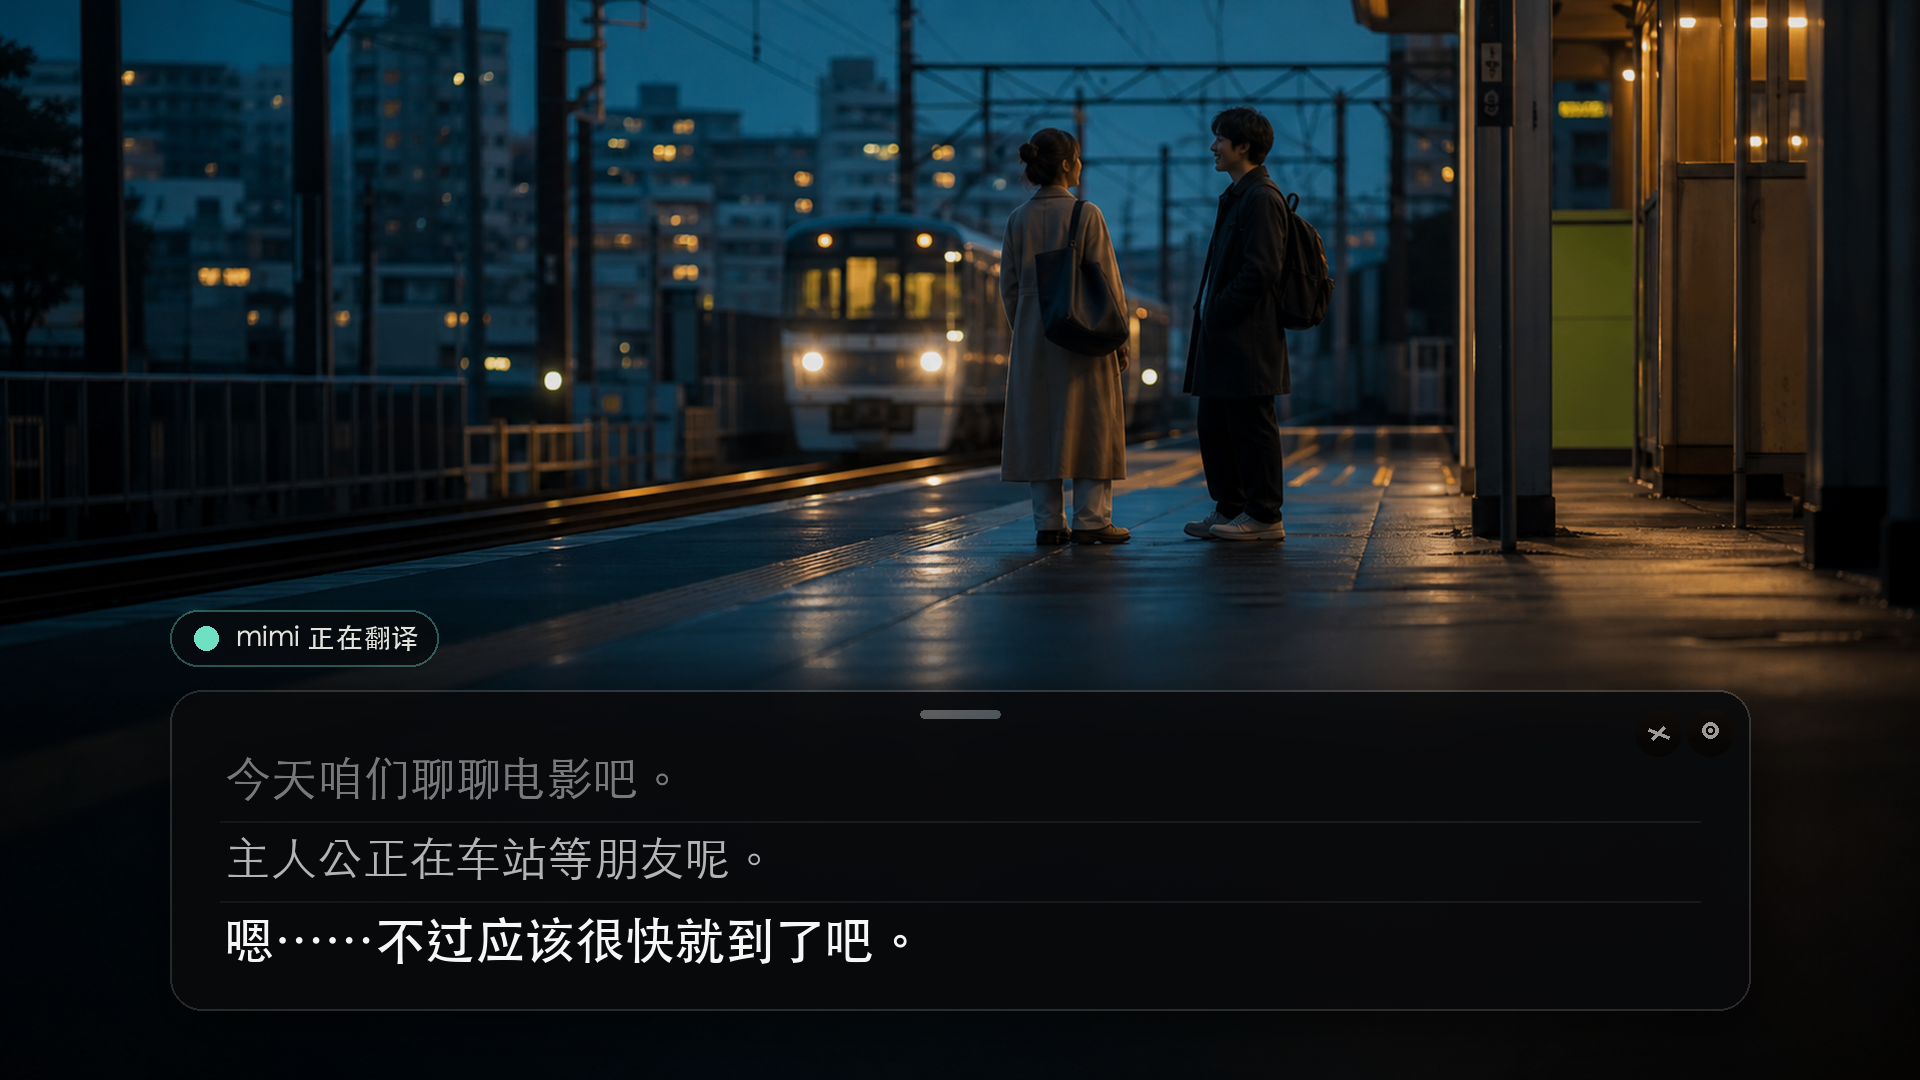
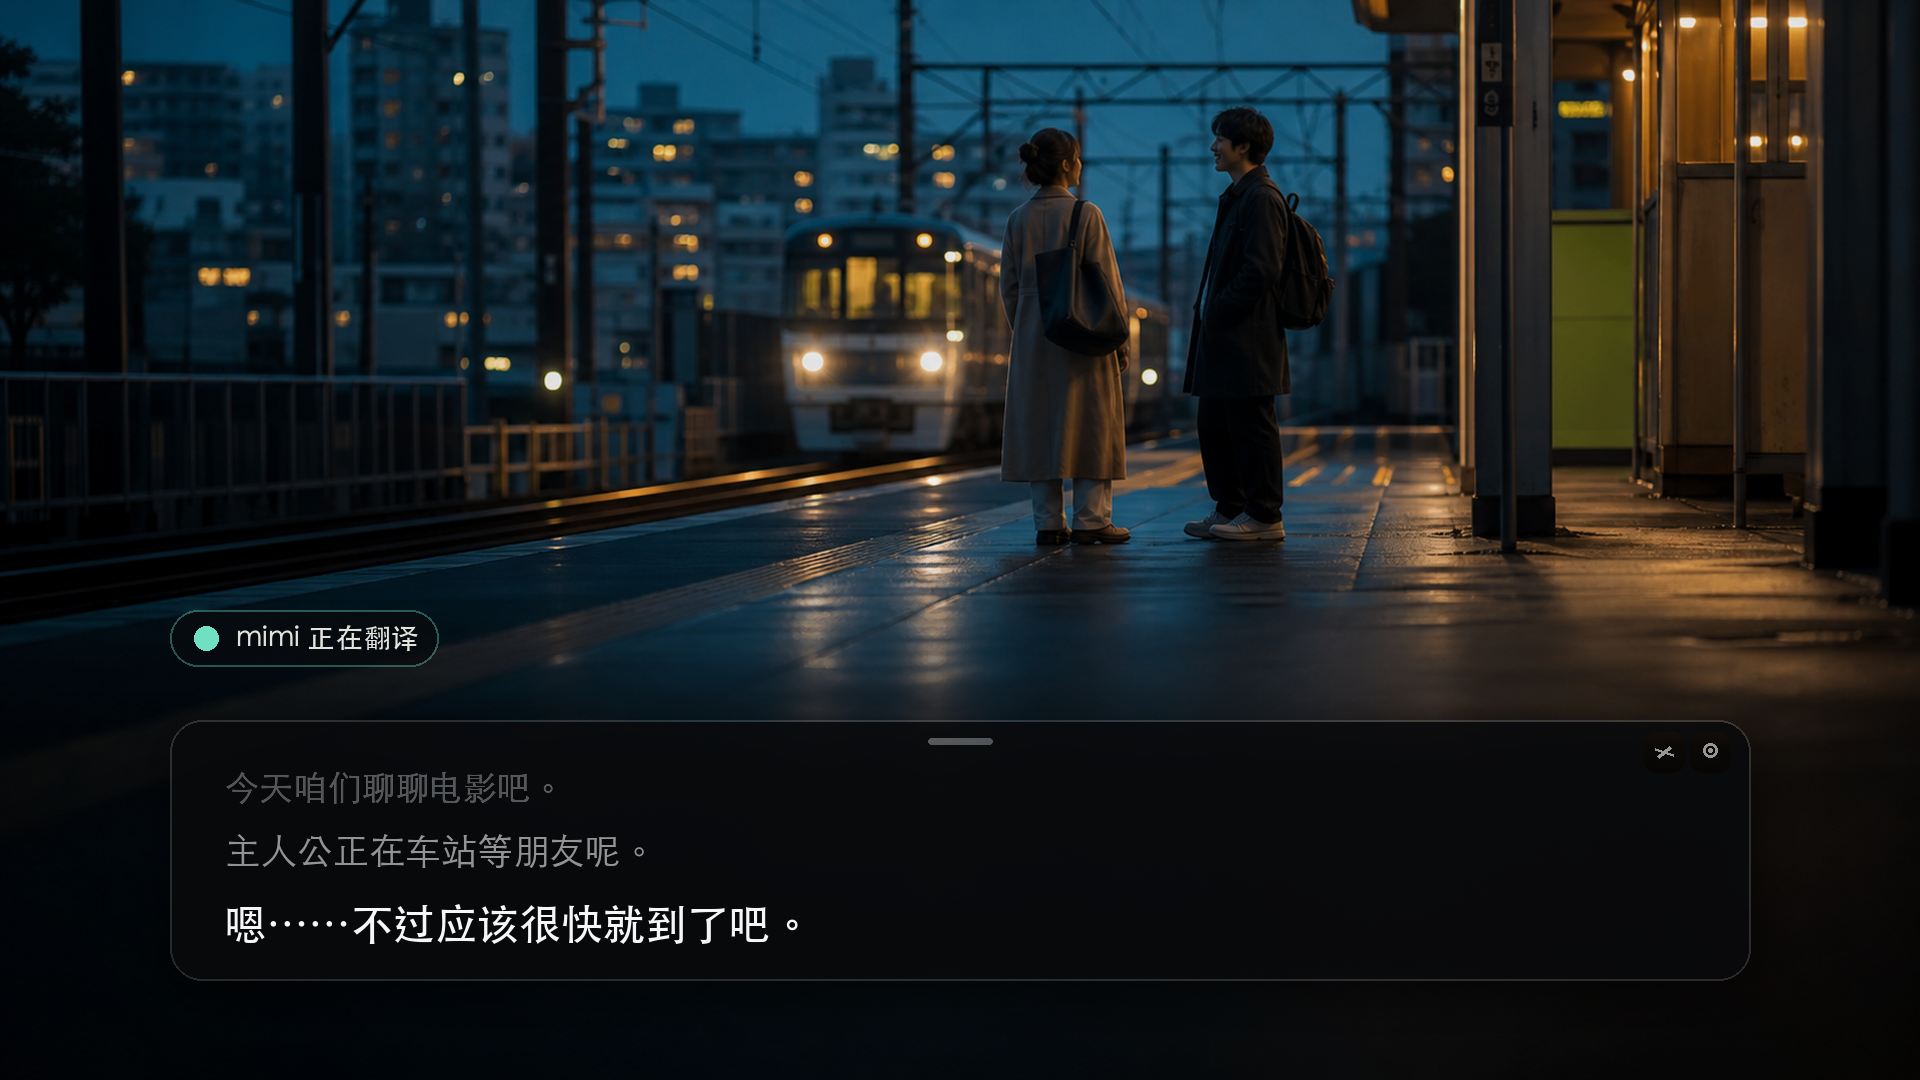
ui: refine the subtitle overlay

diff --git a/Sources/MimiApp/SubtitleOverlayView.swift b/Sources/MimiApp/SubtitleOverlayView.swift
@@ -10,16 +10,26 @@ struct SubtitleOverlayView: View {
     var body: some View {
         ZStack {
             RoundedRectangle(cornerRadius: 16, style: .continuous)
-                .fill(.black.opacity(0.72))
+                .fill(.black.opacity(0.62))
+
+            RoundedRectangle(cornerRadius: 16, style: .continuous)
+                .fill(
+                    LinearGradient(
+                        colors: [.white.opacity(0.035), .clear],
+                        startPoint: .top,
+                        endPoint: .center
+                    )
+                )
 
             VStack(spacing: 0) {
                 WindowDragArea()
-                    .frame(height: 24)
+                    .frame(height: 18)
+                    .opacity(isHovering || model.showsOverlayControlsForUITesting ? 1 : 0)
 
                 if visibleRows.isEmpty {
                     Spacer(minLength: 0)
                     Text(emptyStateText)
-                        .font(.system(size: max(16, settings.fontSize * 0.72), weight: .medium))
+                        .font(.system(size: max(15, settings.fontSize * 0.68), weight: .medium))
                         .foregroundStyle(emptyStateColor)
                         .multilineTextAlignment(.center)
                         .padding(.horizontal, 24)
@@ -31,16 +41,16 @@ struct SubtitleOverlayView: View {
                     )
                 }
             }
-            .padding(8)
+            .padding(7)
         }
         .overlay {
             RoundedRectangle(cornerRadius: 16, style: .continuous)
-                .stroke(.white.opacity(0.09), lineWidth: 1)
+                .stroke(.white.opacity(0.12), lineWidth: 0.75)
         }
         .overlay(alignment: .topTrailing) {
             if !settings.isOverlayLocked
                 && (isHovering || model.showsOverlayControlsForUITesting) {
-                HStack(spacing: 6) {
+                HStack(spacing: 4) {
                     if hasSubtitleContent {
                         OverlayControlButton(
                             systemImage: "eraser.fill",
@@ -57,7 +67,7 @@ struct SubtitleOverlayView: View {
                         model.showSettings()
                     }
                 }
-                .padding(12)
+                .padding(10)
             }
         }
         .onHover { isHovering = $0 }
@@ -66,7 +76,7 @@ struct SubtitleOverlayView: View {
 
     private var visibleRows: [SubtitleRow] {
         let subtitles = model.state.subtitles
-        var rows = subtitles.history.suffix(4).map {
+        var rows = subtitles.history.suffix(2).map {
             SubtitleRow(text: $0.translation)
         }
         let current = subtitles.translation.text
@@ -74,7 +84,7 @@ struct SubtitleOverlayView: View {
         if !current.isEmpty, rows.last?.text != current {
             rows.append(SubtitleRow(text: current))
         }
-        return Array(rows.suffix(5))
+        return Array(rows.suffix(3))
     }
 
     private var hasSubtitleContent: Bool {
@@ -113,10 +123,10 @@ private struct OverlayControlButton: View {
     var body: some View {
         Button(action: action) {
             Image(systemName: systemImage)
-                .font(.system(size: 11, weight: .semibold))
-                .foregroundStyle(.white.opacity(0.58))
-                .frame(width: 26, height: 26)
-                .background(.black.opacity(0.34), in: Circle())
+                .font(.system(size: 10, weight: .medium))
+                .foregroundStyle(.white.opacity(0.68))
+                .frame(width: 24, height: 24)
+                .background(.black.opacity(0.28), in: RoundedRectangle(cornerRadius: 8, style: .continuous))
         }
         .buttonStyle(.plain)
         .help(label)
@@ -141,21 +151,16 @@ private struct SubtitleTimeline: View {
                     ForEach(Array(rows.enumerated()), id: \.offset) { index, row in
                         Text(row.text)
                             .font(.system(
-                                size: fontSize,
-                                weight: index == rows.count - 1 ? .semibold : .regular
+                                size: rowFontSize(at: index),
+                                weight: index == rows.count - 1 ? .medium : .regular
                             ))
                             .foregroundStyle(.white.opacity(rowOpacity(at: index)))
                             .multilineTextAlignment(.leading)
                             .fixedSize(horizontal: false, vertical: true)
                             .frame(maxWidth: .infinity, alignment: .leading)
-                            .padding(.horizontal, 20)
-                            .padding(.vertical, 8)
-
-                        if index < rows.count - 1 {
-                            Color.white.opacity(0.06)
-                                .frame(height: 1)
-                                .padding(.horizontal, 20)
-                        }
+                            .lineSpacing(2)
+                            .padding(.horizontal, 18)
+                            .padding(.vertical, index == rows.count - 1 ? 7 : 5)
                     }
 
                     Color.clear
@@ -173,13 +178,16 @@ private struct SubtitleTimeline: View {
         }
     }
 
+    private func rowFontSize(at index: Int) -> Double {
+        index == rows.count - 1 ? fontSize : max(15, fontSize * 0.82)
+    }
+
     private func rowOpacity(at index: Int) -> Double {
         let distance = rows.count - 1 - index
         return switch distance {
         case 0: 1
-        case 1: 0.72
-        case 2: 0.54
-        default: 0.38
+        case 1: 0.58
+        default: 0.34
         }
     }
 }
@@ -200,7 +208,7 @@ private struct WindowDragArea: NSViewRepresentable {
             super.init(frame: frameRect)
             wantsLayer = true
             handle.wantsLayer = true
-            handle.layer?.backgroundColor = NSColor.white.withAlphaComponent(0.22).cgColor
+            handle.layer?.backgroundColor = NSColor.white.withAlphaComponent(0.28).cgColor
             handle.layer?.cornerRadius = 1.5
             addSubview(handle)
         }
@@ -212,9 +220,9 @@ private struct WindowDragArea: NSViewRepresentable {
         override func layout() {
             super.layout()
             handle.frame = NSRect(
-                x: (bounds.width - 36) / 2,
+                x: (bounds.width - 32) / 2,
                 y: (bounds.height - 3) / 2,
-                width: 36,
+                width: 32,
                 height: 3
             )
         }

diff --git a/Sources/MimiApp/AppSettings.swift b/Sources/MimiApp/AppSettings.swift
@@ -41,7 +41,9 @@ final class AppSettings: ObservableObject {
             : storedTranslationMode
 
         let storedFontSize = defaults.double(forKey: Keys.fontSize)
-        self.fontSize = storedFontSize > 0 ? storedFontSize : 30
+        // 30 was the original default. Move existing installs to the quieter
+        // product default while preserving every explicitly chosen size.
+        self.fontSize = storedFontSize == 30 || storedFontSize == 0 ? 26 : storedFontSize
         self.isOverlayLocked = defaults.object(forKey: Keys.overlayLocked) as? Bool ?? false
         if isUITestMode {
             self.apiKey = "sk-demo-not-a-real-key"

diff --git a/Sources/MimiApp/OverlayWindowController.swift b/Sources/MimiApp/OverlayWindowController.swift
@@ -4,9 +4,9 @@ import SwiftUI
 @MainActor
 final class OverlayWindowController {
     private static let frameAutosaveName = "mimi.subtitle-overlay"
-    private static let defaultSize = NSSize(width: 620, height: 220)
-    private static let minimumSize = NSSize(width: 460, height: 180)
-    private static let maximumSize = NSSize(width: 900, height: 420)
+    private static let defaultSize = NSSize(width: 640, height: 190)
+    private static let minimumSize = NSSize(width: 460, height: 150)
+    private static let maximumSize = NSSize(width: 960, height: 360)
 
     private let panel: NSPanel
 

diff --git a/README_EN.md b/README_EN.md
@@ -11,13 +11,13 @@
 
 ![mimi translating dialogue over a video](docs/images/mimi-product-hero.png)
 
-## Stay with the video
+## Subtitles that belong in the picture
 
-mimi listens to the sound playing on your Mac. Whether it comes from a browser, a media player, or a desktop app, the Chinese subtitles stay with the picture.
+mimi listens to the sound playing on your Mac. Whether it comes from a browser, a media player, or a desktop app, the Chinese subtitles sit quietly over the picture.
 
 It starts before the speaker finishes, then quietly refines the line as more of it becomes clear. Pauses, tone, and recent context remain part of the translation.
 
-Place the subtitle window where it feels right, resize it, and lock it. Once locked, it stays out of the way of your mouse.
+The current line stays clear while earlier dialogue gently recedes. Place the subtitle window where it feels right, resize it, and lock it. Once locked, it stays out of the way of your mouse.
 
 ## Get started
 

diff --git a/README.md b/README.md
@@ -11,13 +11,13 @@
 
 ![mimi 实时翻译视频中的对话](docs/images/mimi-product-hero.png)
 
-## 好好看视频
+## 字幕留在画面里
 
-mimi 听的是 Mac 正在播放的声音。无论内容来自浏览器、播放器还是桌面应用，中文字幕都会留在画面上。
+mimi 听的是 Mac 正在播放的声音。无论内容来自浏览器、播放器还是桌面应用，中文字幕都会安静地待在画面上。
 
 它不会等整句话结束才开始工作。正在说的内容先出现，听清之后再自然地补完整。人物说话的停顿、语气和前后文，也会尽量留在译文里。
 
-字幕窗可以放在顺眼的位置。调好大小，锁住，它就不再挡住鼠标。
+当前一句始终清楚，刚刚说过的话逐渐淡去。字幕窗可以放在顺眼的位置；调好大小，锁住，它就不再挡住鼠标。
 
 ## 开始使用
 
